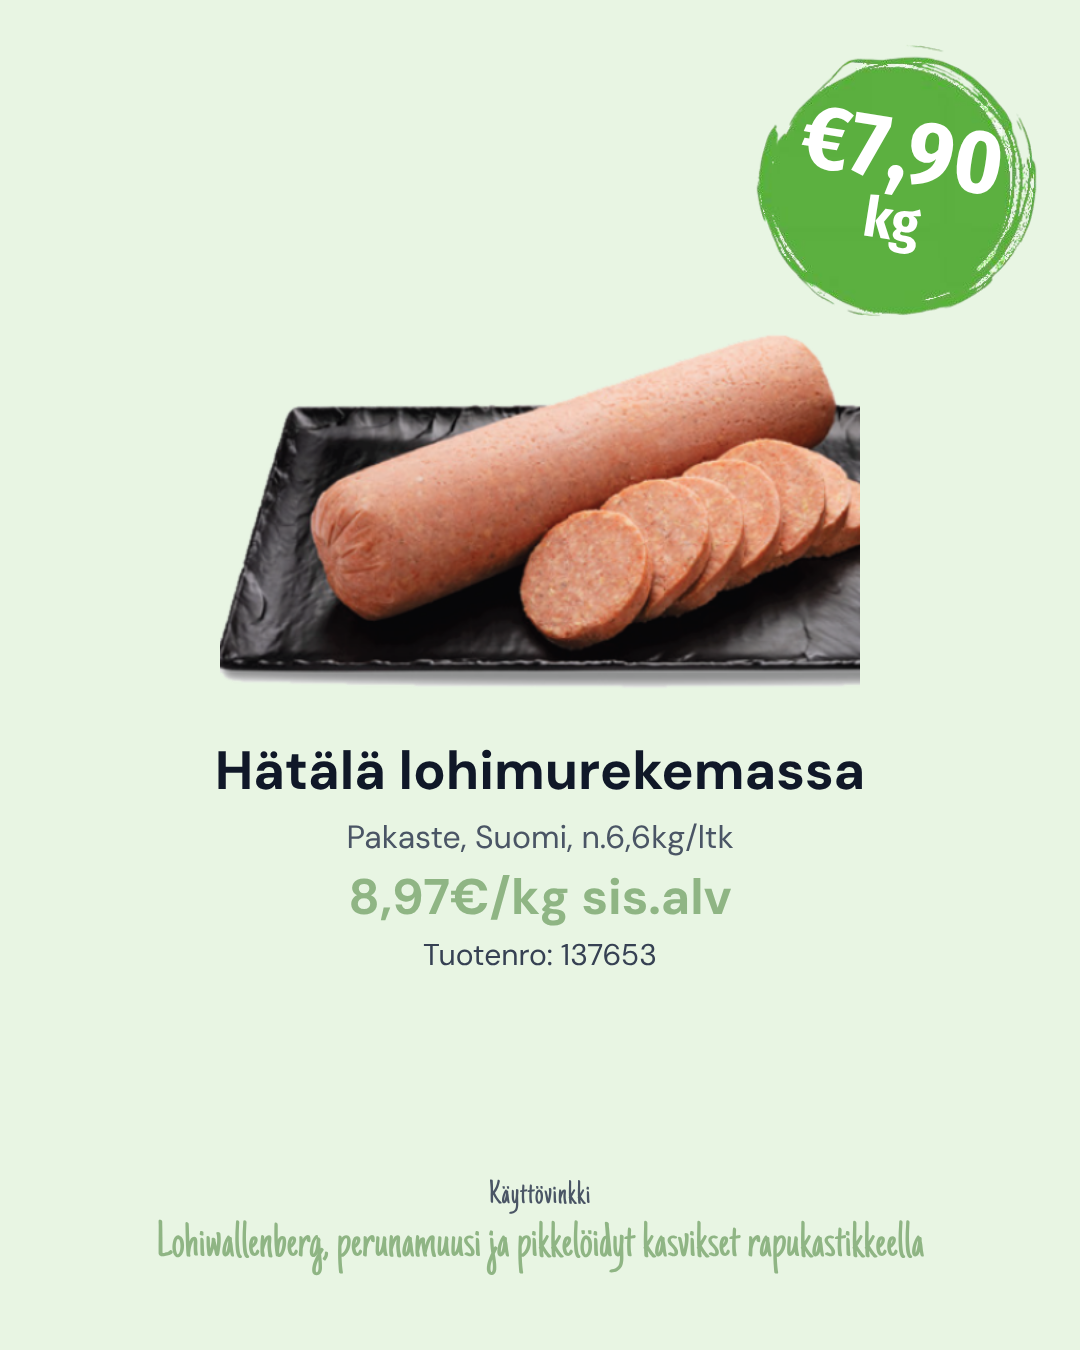
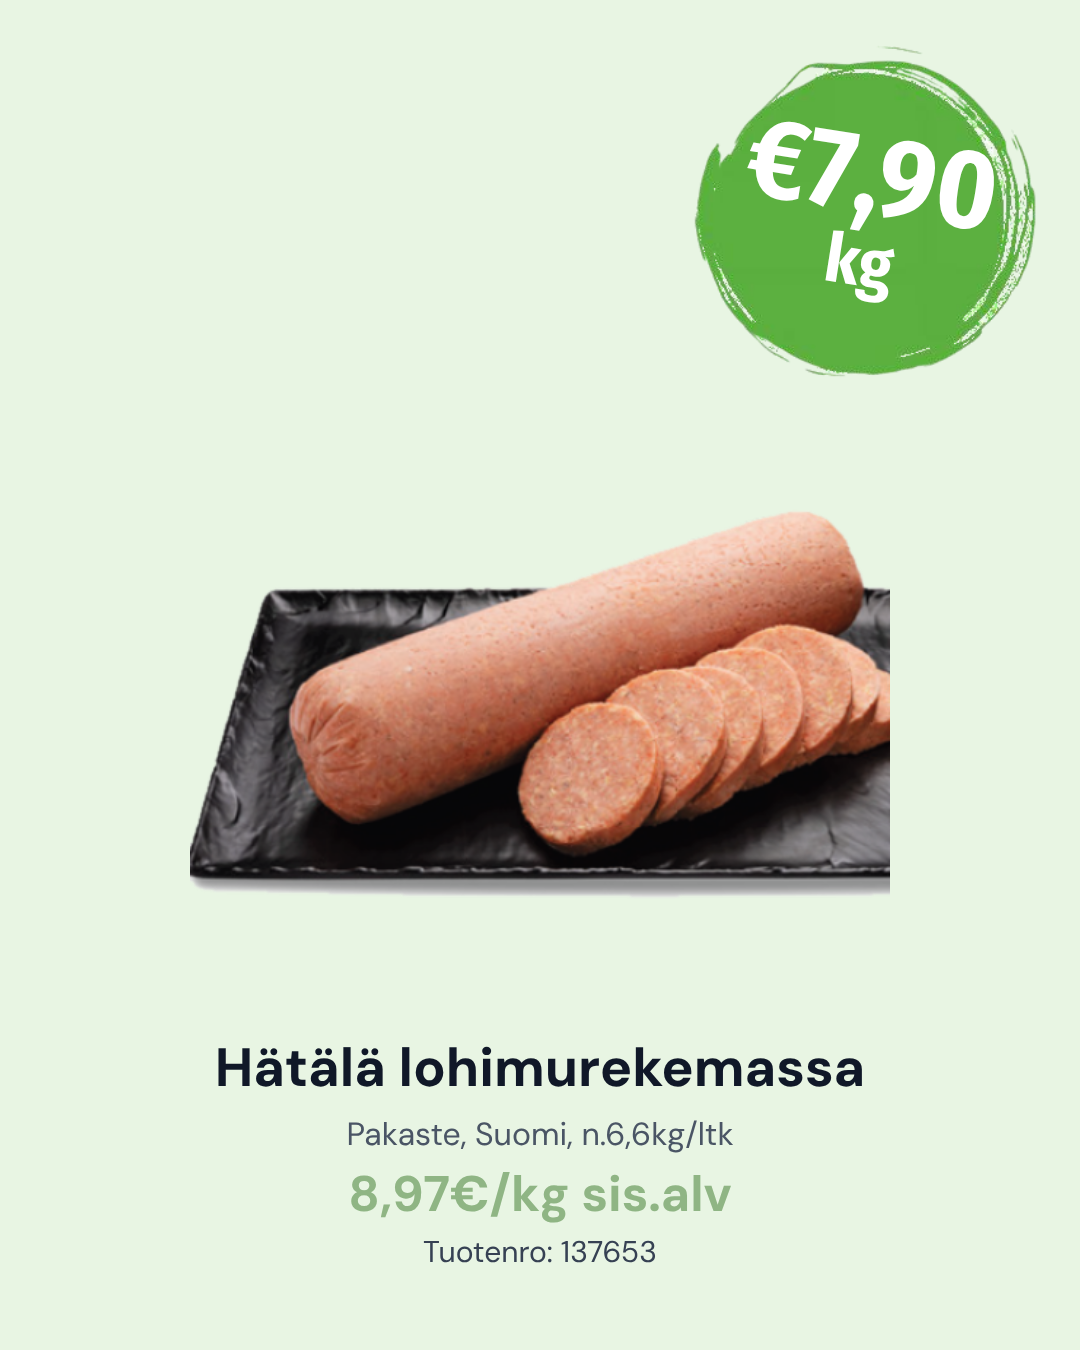
Simplify Instagram images: no recipe tip, bigger badge, bottom text
Drop the recipe tip, enlarge the price badge, and anchor the product
text to the bottom so prices and details sit at the same height on
every image.

Claude-Session: https://claude.ai/code/session_01X8Lk915b9RmWmbPNMZUzmb

Changed region(s): [[0.1528, 0.0311, 0.9778, 0.7156], [0.1222, 0.7778, 0.8556, 0.9333]]

diff --git a/viikkotarjoukset/insta.py b/viikkotarjoukset/insta.py
@@ -14,8 +14,11 @@ from decimal import Decimal, ROUND_HALF_UP
 from rakenna import ALV, BG, HERE, data_uri, find, money, read_sheet, week_label
 
 W, H = 1080, 1350
-BADGE = 320  # hintapallon halkaisija (px)
-PHOTO_W, PHOTO_H = 640, 520  # kuva-alue, kuva keskitetään sen alareunaan
+BADGE = 390  # hintapallon halkaisija (px)
+# Kuva-alue (kuva keskitetään sen alareunaan) ja tekstilohkon alareuna:
+# samat kaikissa kuvissa, jotta sarja on yhtenäinen.
+PHOTO_W, PHOTO_H, PHOTO_TOP = 700, 600, 300
+TEXT_BOTTOM = 80
 
 
 def slug(s):
@@ -37,32 +40,27 @@ def page_html(it):
     vat = (it["price"] * ALV).quantize(Decimal("0.01"), ROUND_HALF_UP)
     img = find("kuvat", it["code"])
     pw, ph = photo_size(img, PHOTO_W, PHOTO_H)
-    dy = 0 if it["tip"] else 110  # ilman vinkkiä koko sommitelma hieman alemmas
-    price_fs = 90 if len(money(it["price"])) <= 4 else 72
-    tip = (f'<div class="tip"><span>Käyttövinkki</span>{e(it["tip"])}</div>' if it["tip"] else "")
+    price_fs = 112 if len(money(it["price"])) <= 4 else 92
     return f"""<!doctype html><html><head><meta charset="utf-8">
-<link href="https://fonts.googleapis.com/css2?family=DM+Sans:wght@400;500;700&family=Fira+Sans+Condensed:wght@700&family=Just+Another+Hand&display=block" rel="stylesheet">
+<link href="https://fonts.googleapis.com/css2?family=DM+Sans:wght@400;500;700&family=Fira+Sans+Condensed:wght@700&display=block" rel="stylesheet">
 <style>
 html,body{{margin:0}}
 body{{width:{W}px;height:{H}px;background:{BG};overflow:hidden;font-family:'DM Sans';position:relative}}
 body>div{{position:absolute}}
-.pw{{left:{(W - PHOTO_W)//2}px;top:{dy + 170}px;width:{PHOTO_W}px;height:{PHOTO_H}px;display:flex;align-items:flex-end;justify-content:center}}
+.pw{{left:{(W - PHOTO_W)//2}px;top:{PHOTO_TOP}px;width:{PHOTO_W}px;height:{PHOTO_H}px;display:flex;align-items:flex-end;justify-content:center}}
 .pw img{{max-width:100%;max-height:100%;width:{pw}px;height:{ph}px}}
-.badge{{left:{W - BADGE - 22}px;top:{dy + 22}px;width:{BADGE}px;height:{BADGE}px}}
+.badge{{left:{W - BADGE - 18}px;top:18px;width:{BADGE}px;height:{BADGE}px}}
 .badge img{{width:100%;height:100%;display:block}}
 .bt{{position:absolute;inset:0;display:flex;flex-direction:column;align-items:center;justify-content:center;
      color:#fff;font-family:'Fira Sans Condensed';font-weight:700;transform:rotate(9deg);line-height:.92;padding-bottom:8px}}
 .bt b{{font-size:{price_fs}px;letter-spacing:.5px}}
-.bt i{{font-style:normal;font-size:56px;margin-top:4px}}
-.txt{{left:60px;right:60px;top:{dy + 170 + PHOTO_H + 50}px;display:flex;flex-direction:column;align-items:center;text-align:center}}
+.bt i{{font-style:normal;font-size:68px;margin-top:6px}}
+.txt{{left:60px;right:60px;bottom:{TEXT_BOTTOM}px;display:flex;flex-direction:column;align-items:center;text-align:center}}
 .txt p{{margin:0}}
 .nm{{font-weight:600;font-size:54px;line-height:1.15;color:#101828;text-wrap:balance;max-width:940px}}
 .mt{{font-size:32px;line-height:1.2;color:#4a5565;margin-top:16px!important}}
 .vat{{font-weight:700;font-size:50px;line-height:1.1;color:#8fb584;margin-top:14px!important}}
 .cd{{font-size:30px;line-height:1.2;color:#364153;margin-top:12px!important}}
-.tip{{left:90px;right:90px;bottom:80px;height:150px;display:flex;flex-direction:column;align-items:center;justify-content:flex-end;text-align:center;
-      font:52px/0.95 'Just Another Hand';color:#8fb584;text-wrap:balance}}
-.tip span{{font-size:34px;color:#4a5565;letter-spacing:1px;margin-bottom:8px}}
 </style></head><body>
 <div class="pw">{f'<img src="{data_uri(img)}">' if img else ''}</div>
 <div class="badge"><img src="{a('hintapallo.png')}"><div class="bt"><b>€{money(it["price"])}</b><i>{e(it["unit"])}</i></div></div>
@@ -72,7 +70,6 @@ body>div{{position:absolute}}
   <p class="vat">{money(vat)}€/{e(it["unit"])} sis.alv</p>
   <p class="cd">Tuotenro: {e(it["code"])}</p>
 </div>
-{tip}
 </body></html>"""
 
 
